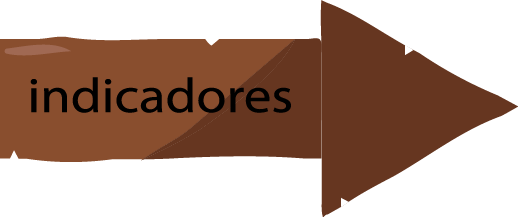
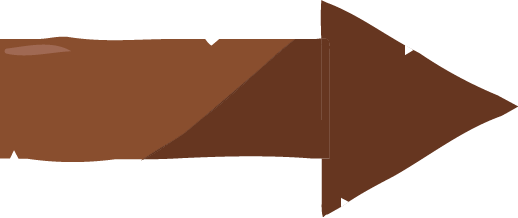
Fix GQIM Game arrow labels

diff --git a/src/components/gqim-game/GqimGameScene.js b/src/components/gqim-game/GqimGameScene.js
@@ -380,8 +380,17 @@ export default class GqimGameScene extends Scene {
     const ARROW_MARGIN = 20
     const x = leftMostPosition - ARROW_WIDTH - ARROW_MARGIN
 
-    for (let row of Object.values(treeNodes)) {
-      console.log({row, treeNodes})
+    const rows = Object.values(treeNodes)
+    const labels = [
+      'Goal',
+      'Questions',
+      'Indicators',
+      'Metrics'
+    ]
+
+    const pairs = labels.map((label, i) => [label, rows[i]])
+
+    for (let [label, row] of pairs) {
       const elements = Array.isArray(row) ? row : [row]
 
       const element = elements[0]
@@ -389,6 +398,11 @@ export default class GqimGameScene extends Scene {
       const y = bounds.y + (bounds.height / 2)
 
       this.add.image(x, y, 'arrow')
+        .setOrigin(0.5)
+      this.add.text(x - 90, y - 10, label, {
+        fontSize: 50,
+        align: 'center'
+      })
         .setOrigin(0.5)
     }
   }
